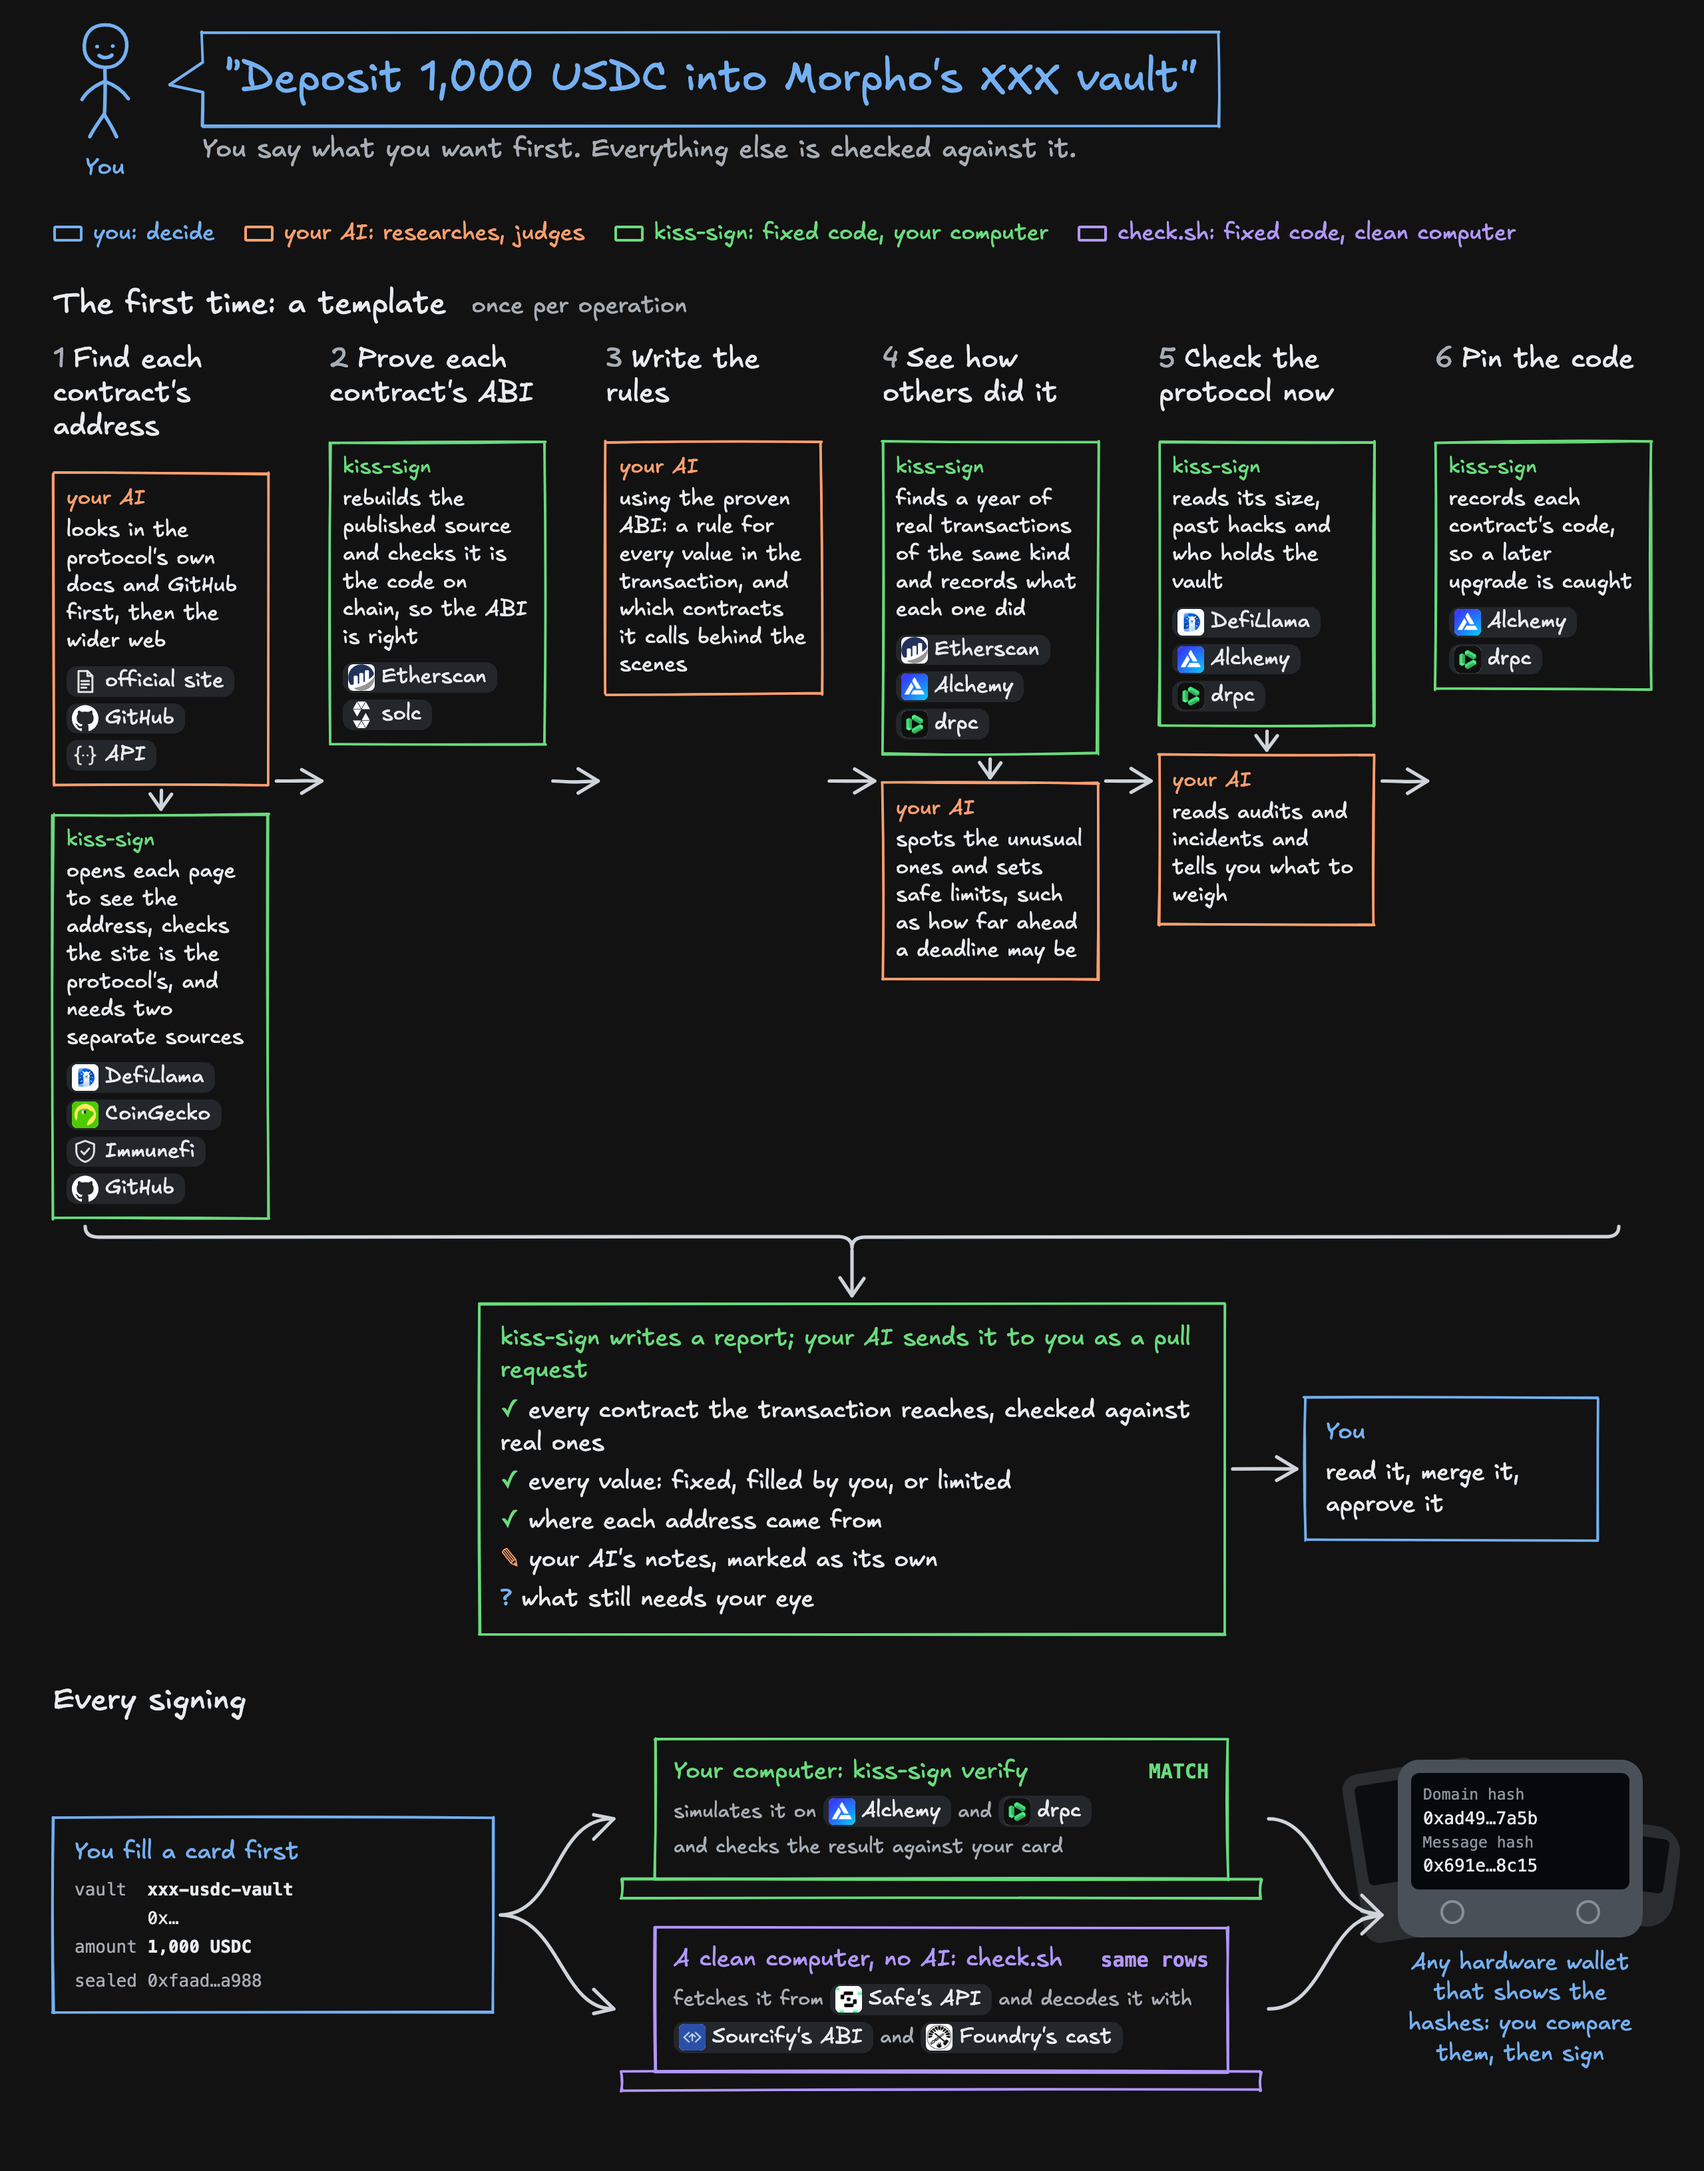
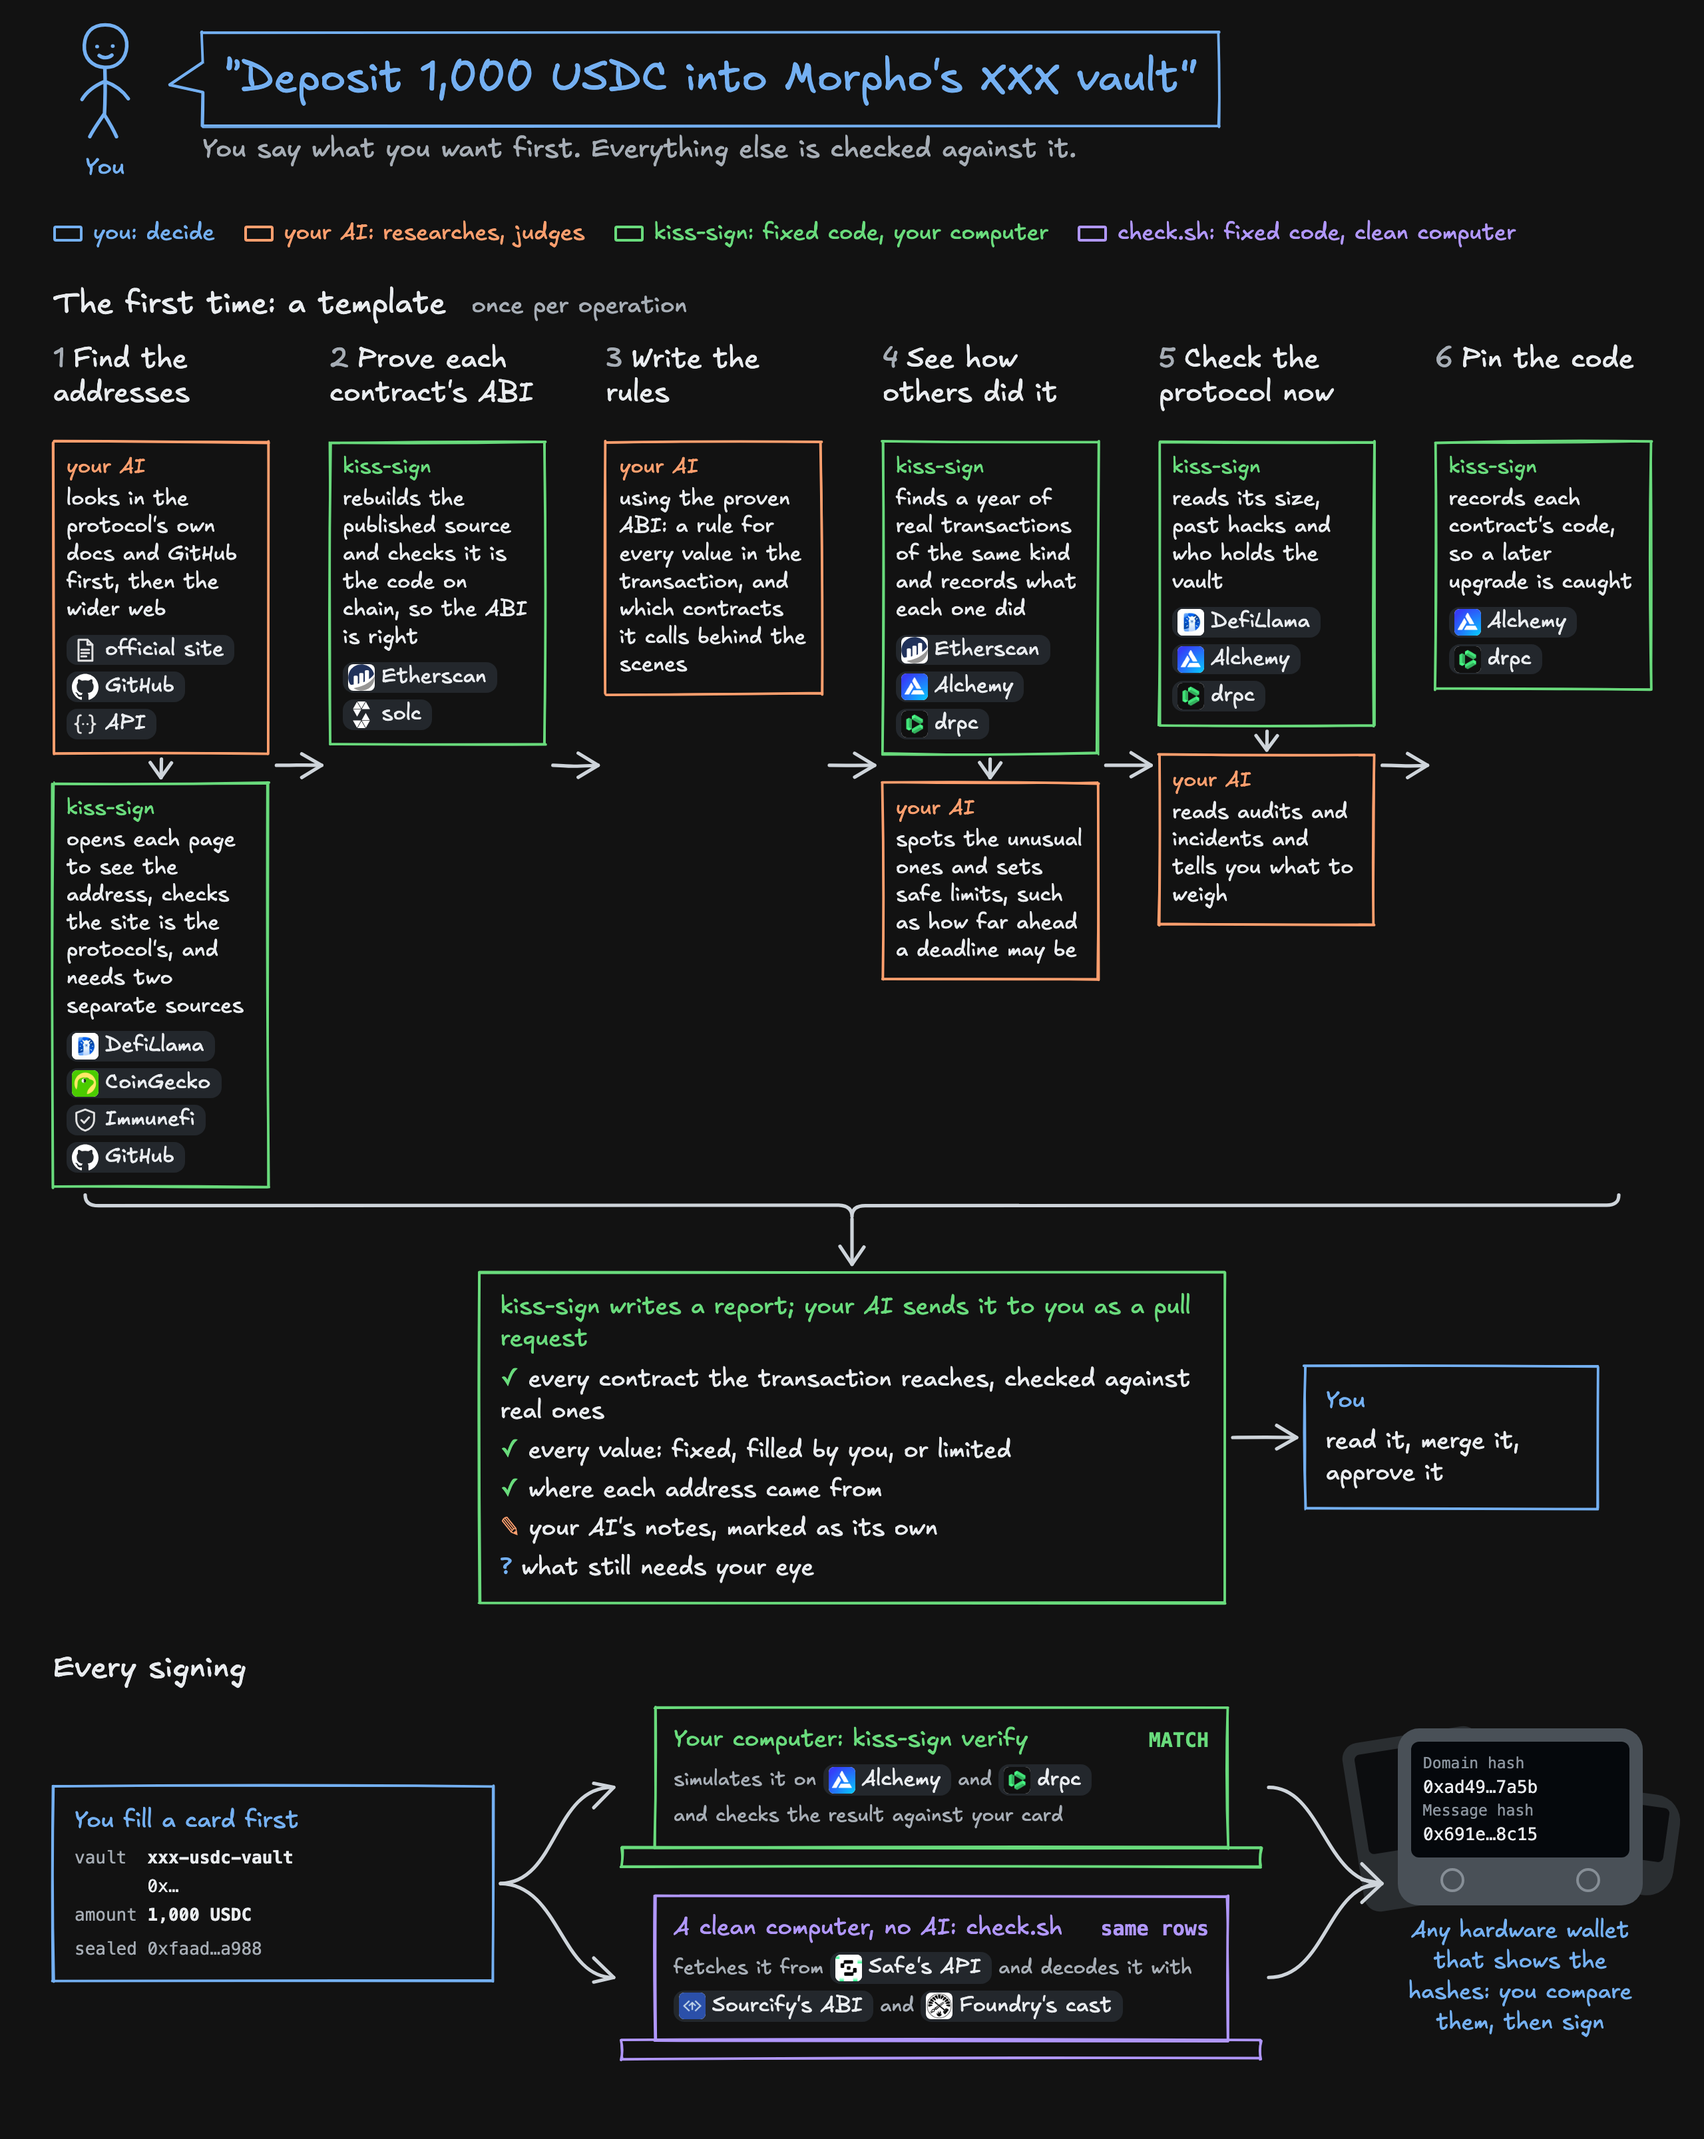
Shorten step 1's title so the overview's first boxes line up
Claude-Session: https://claude.ai/code/session_019EpkRikTD1KbjKp9L1wtSS

diff --git a/docs/diagrams/readme-overview.html b/docs/diagrams/readme-overview.html
@@ -119,7 +119,7 @@
   <h2>The first time: a template <b>once per operation</b></h2>
   <div class="chain" id="chain">
     <div class="steps">
-      <div class="step" id="s1"><div class="t"><span class="n">1</span>Find each contract's address</div><div class="sk part ai"><div class="who">your AI</div><div>looks in the protocol's own docs and GitHub first, then the wider web</div><div class="logos"><span class="lg"><img class="mono-logo" src="logos/docs.svg" alt="">official site</span><span class="lg"><img class="mono-logo" src="logos/github.svg" alt="">GitHub</span><span class="lg"><img class="mono-logo" src="logos/api.svg" alt="">API</span></div></div><div class="sk part prog"><div class="who">kiss-sign</div><div>opens each page to see the address, checks the site is the protocol's, and needs two separate sources</div><div class="logos"><span class="lg"><img src="logos/defillama.jpg" alt="">DefiLlama</span><span class="lg"><img src="logos/coingecko.png" alt="">CoinGecko</span><span class="lg"><img class="mono-logo" src="logos/bounty.svg" alt="">Immunefi</span><span class="lg"><img class="mono-logo" src="logos/github.svg" alt="">GitHub</span></div></div></div>
+      <div class="step" id="s1"><div class="t"><span class="n">1</span>Find the addresses</div><div class="sk part ai"><div class="who">your AI</div><div>looks in the protocol's own docs and GitHub first, then the wider web</div><div class="logos"><span class="lg"><img class="mono-logo" src="logos/docs.svg" alt="">official site</span><span class="lg"><img class="mono-logo" src="logos/github.svg" alt="">GitHub</span><span class="lg"><img class="mono-logo" src="logos/api.svg" alt="">API</span></div></div><div class="sk part prog"><div class="who">kiss-sign</div><div>opens each page to see the address, checks the site is the protocol's, and needs two separate sources</div><div class="logos"><span class="lg"><img src="logos/defillama.jpg" alt="">DefiLlama</span><span class="lg"><img src="logos/coingecko.png" alt="">CoinGecko</span><span class="lg"><img class="mono-logo" src="logos/bounty.svg" alt="">Immunefi</span><span class="lg"><img class="mono-logo" src="logos/github.svg" alt="">GitHub</span></div></div></div>
       <div class="step" id="s2"><div class="t"><span class="n">2</span>Prove each contract's ABI</div><div class="sk part prog"><div class="who">kiss-sign</div><div>rebuilds the published source and checks it is the code on chain, so the ABI is right</div><div class="logos"><span class="lg"><img src="logos/etherscan.svg" alt="">Etherscan</span><span class="lg"><img class="mono-logo" src="logos/solidity.svg" alt="">solc</span></div></div></div>
       <div class="step" id="s3"><div class="t"><span class="n">3</span>Write the rules</div><div class="sk part ai"><div class="who">your AI</div><div>using the proven ABI: a rule for every value in the transaction, and which contracts it calls behind the scenes</div></div></div>
       <div class="step" id="s4"><div class="t"><span class="n">4</span>See how others did it</div><div class="sk part prog"><div class="who">kiss-sign</div><div>finds a year of real transactions of the same kind and records what each one did</div><div class="logos"><span class="lg"><img src="logos/etherscan.svg" alt="">Etherscan</span><span class="lg"><img src="logos/alchemy.png" alt="">Alchemy</span><span class="lg"><img src="logos/drpc.png" alt="">drpc</span></div></div><div class="sk part ai"><div class="who">your AI</div><div>spots the unusual ones and sets safe limits, such as how far ahead a deadline may be</div></div></div>
